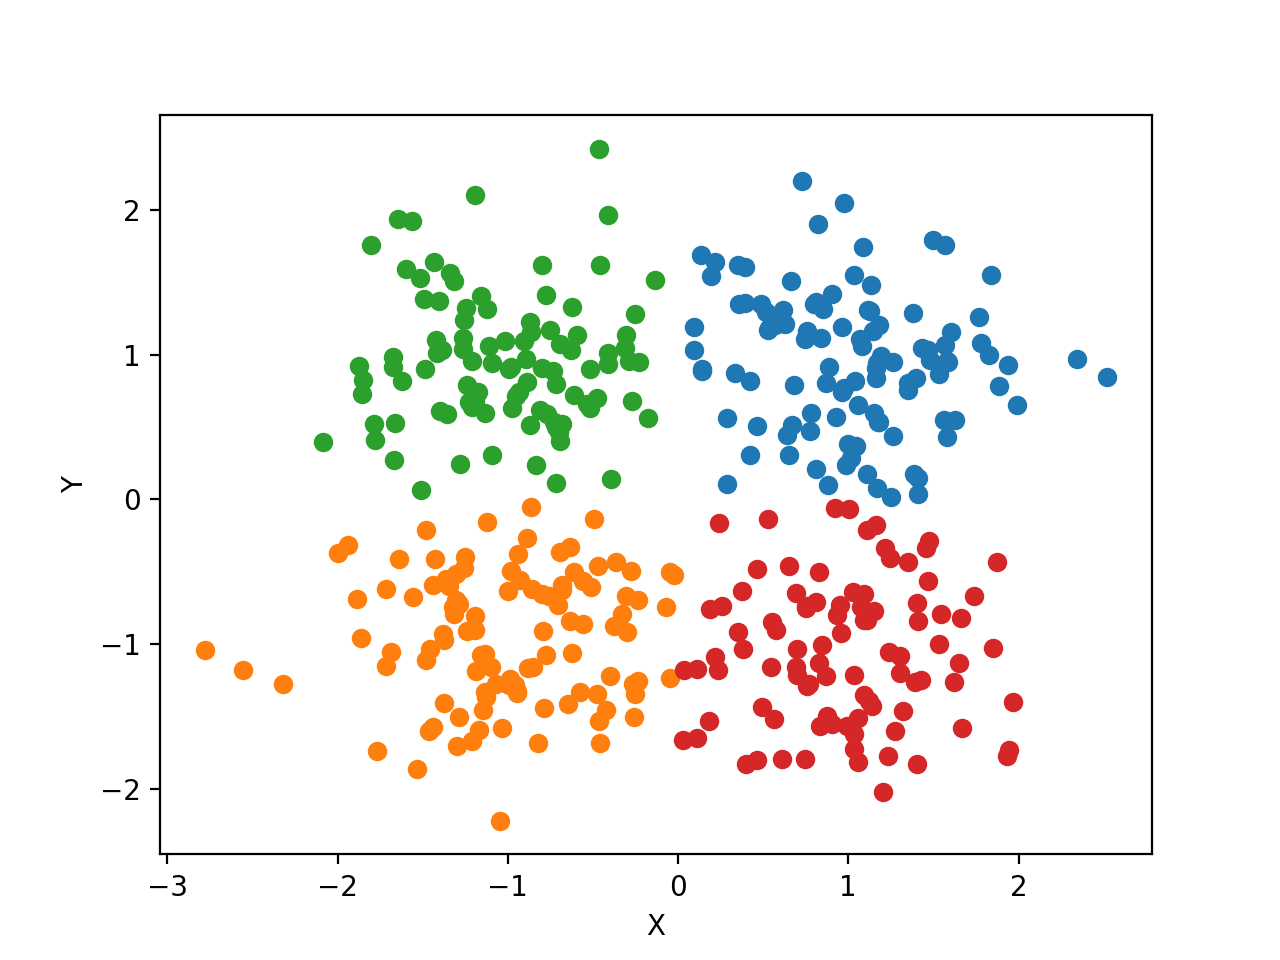
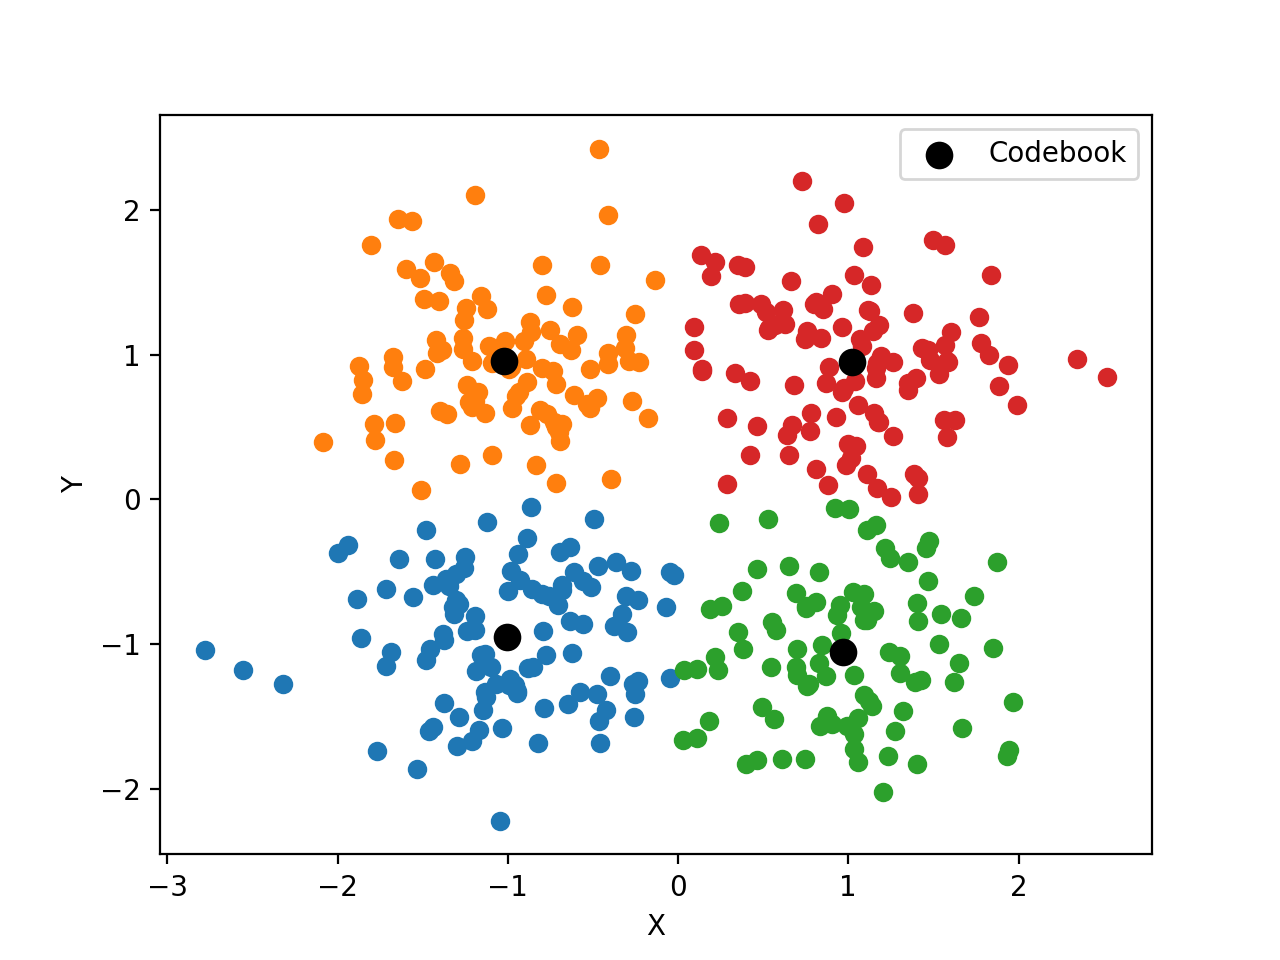
add codebook vecs in figure and create gif anime

diff --git a/ex_5/t_suzuki/ex_5_kmeans.py b/ex_5/t_suzuki/ex_5_kmeans.py
@@ -3,7 +3,9 @@ import argparse
 import numpy as np
 import pandas as pd
 import matplotlib.pyplot as plt
-from mpl_toolkits.mplot3d.axes3d import Axes3D
+from mpl_toolkits.mplot3d import Axes3D
+import matplotlib.animation as animation
+# from mpl_toolkits.mplot3d.axes3d import Axes3D
 
 
 def center(S):
@@ -228,18 +230,28 @@ def main():
         fig, ax = plt.subplots()
         for s in S:
             ax.scatter(s[:, 0], s[:, 1])
+        ax.scatter(A[:, 0], A[:, 1], color='black', s=80, label='Codebook')
         ax.set(xlabel='X', ylabel='Y')
+        plt.legend()
         plt.show(block=True)
         fig.savefig(f'./out/clustering_{data_name}_{args.method}_{args.k}.png')
-    # plot 3D
+
+    # plot 3D animation
     else:
         fig = plt.figure()
         ax = Axes3D(fig)
+
         for s in S:
             ax.scatter(s[:, 0], s[:, 1], s[:, 2])
+        ax.scatter(A[:, 0], A[:, 1], A[:, 2], color='black', s=80, label='Codebook')
         ax.set(xlabel='X', ylabel='Y', zlabel='Z')
-        plt.show(block=True)
-        fig.savefig(f'./out/clustering_{data_name}_{args.method}_{args.k}.png')
+        plt.legend()
+        
+        def rotate(angle):
+            ax.view_init(azim=angle)
+        anim = animation.FuncAnimation(
+                fig, rotate, frames=180, interval=50)
+        anim.save(f'./out/clustering_data3_{args.method}_{args.k}.gif', dpi=80)
 
 
 if __name__ == '__main__':
